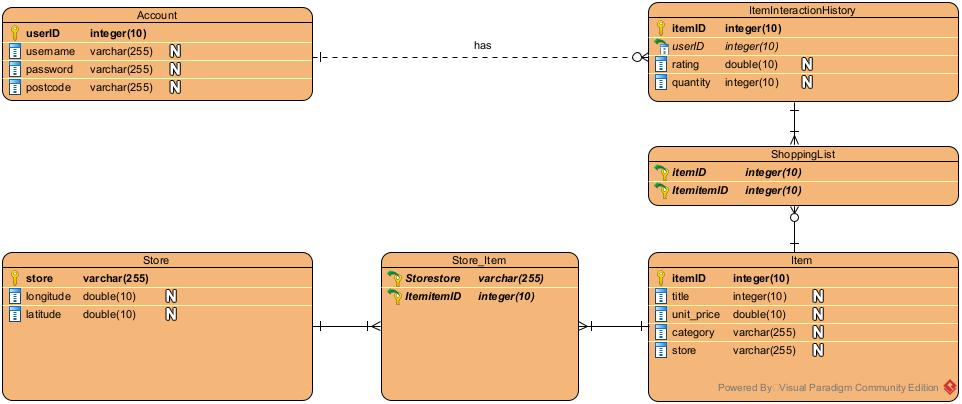
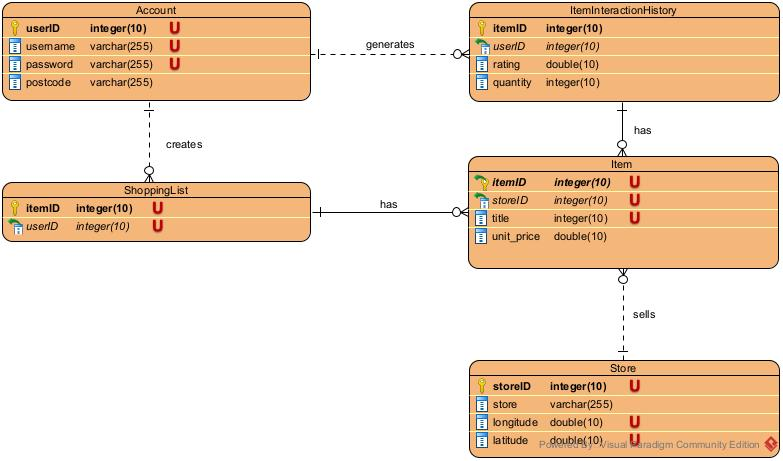
Started to work on the login-register functionality for the user

diff --git a/BuyMeNow/View/SigninPage.xaml b/BuyMeNow/View/SigninPage.xaml
@@ -2,11 +2,46 @@
 <ContentPage xmlns="http://schemas.microsoft.com/dotnet/2021/maui"
              xmlns:x="http://schemas.microsoft.com/winfx/2009/xaml"
              x:Class="BuyMeNow.SigninPage"
-             Title="SigninPage">
-    <VerticalStackLayout>
-        <Label 
-            Text="Welcome to .NET MAUI!"
-            VerticalOptions="Center" 
-            HorizontalOptions="Center" />
-    </VerticalStackLayout>
+             Title="SigninPage"
+             Shell.NavBarIsVisible="False">
+
+    <Grid BackgroundColor="White" RowDefinitions="210, 20, 40, 50, 80, 210, 250">
+        <StackLayout Grid.Row="0" BackgroundColor="AliceBlue">
+            <Image Source="user2.png" Margin="0, 70, 0, 0" Aspect="AspectFit"/>
+        </StackLayout>
+
+        <Label Grid.Row="3" Text="Welcome to Buy Me Now" HorizontalOptions="Center" FontSize="Title" Padding="0" Margin="0"/>
+        <Label Grid.Row="4" Text="Sign in to continue" HorizontalOptions="Center" FontSize="Subtitle"/>
+
+        <StackLayout Grid.Row="5" Orientation="Vertical" HorizontalOptions="CenterAndExpand">
+            <Frame BackgroundColor="Transparent" BorderColor="#00ace6" Padding="0" HorizontalOptions="FillAndExpand" CornerRadius="30">
+                <StackLayout Orientation="Horizontal" WidthRequest="350">
+                    <Frame HeightRequest="40" WidthRequest="40" CornerRadius="30" Padding="0" Margin="5">
+                        <Image Source="user1.png" Margin="0"/>
+                    </Frame>
+                    <Entry Text="{Binding username}" Placeholder="Username" TextColor="Black" VerticalOptions="Center" HorizontalOptions="FillAndExpand" Margin="0,0,20,0"/>
+                </StackLayout>
+            </Frame>
+            <Frame BackgroundColor="Transparent" BorderColor="#00ace6" Padding="0" Margin="0,15,0,0" HorizontalOptions="FillAndExpand" CornerRadius="30">
+                <StackLayout Orientation="Horizontal" WidthRequest="350">
+                    <Frame HeightRequest="40" WidthRequest="40" BorderColor="#00ace6" CornerRadius="30" Padding="0" Margin="5">
+                        <Image Source="lock.png" Margin="0"/>
+                    </Frame>
+                    <Entry Text="{Binding password}" Placeholder="Password" TextColor="Black" VerticalOptions="Center" HorizontalOptions="FillAndExpand" Margin="0,0,20,0"/>
+                </StackLayout>
+            </Frame>
+
+            <StackLayout Orientation="Horizontal" Margin="0,10,0,0" Padding="0">
+                <CheckBox IsChecked="False"/>
+                <Label Text="Remember Me" TextColor="DarkGrey" FontSize="Small" VerticalTextAlignment="Center" HorizontalTextAlignment="Center"/>
+                <Label Text="Forgot Password" TextColor="#00a5f7" HorizontalOptions="EndAndExpand" VerticalTextAlignment="Center"/>
+            </StackLayout>
+            <Button Text="Sign In" CornerRadius="30" WidthRequest="200" Margin="0,15,0,0" Command="{Binding LoginCommand}"/>
+            
+        </StackLayout>
+        <StackLayout Grid.Row="6" Orientation="Horizontal" HorizontalOptions="CenterAndExpand" Margin="0,60,0,0" Padding="0">
+            <Label Text="New User?" TextColor="DarkGray" FontSize="Small"/>
+            <Label Text="Sign Up" TextColor="#00a5f7" FontAttributes="Bold" FontSize="Small"/>
+        </StackLayout>
+    </Grid>
 </ContentPage>

diff --git a/BuyMeNow/Model/Account.cs b/BuyMeNow/Model/Account.cs
@@ -1,70 +1,40 @@
-namespace BuyMeNow.Model;
+using SQLite;
 
-class Account
+namespace BuyMeNow.Model;
+
+public class Account
 {
+    
     private int userID;
-    private string email;
     private string username;
     private string password;
     private string postcode;
     private List<ItemInteractionHistory> interactions;
     private List<ShoppingList> shoppingList;
 
-    public Account(string password, string email = null, string username = null) 
+    public Account(int userID, string username, string password, string postcode)
     {
-        this.email = email;
-        this.username = username;
-        this.password = password;
-    }
-
-    public Account(string email, string username, string password, string postcode)
-    {
-        this.email = email;
+        this.userID = userID;
         this.username = username;
         this.password = password;
         this.postcode = postcode;
     }
 
-    public int UserID
-    {
-        get => userID;
-        set => userID = value;
-    }
+    [PrimaryKey, Unique, NotNull, Column("userID")]
+    public int UserID { get => userID; set => userID = value; }
     
-    public string Email
-    {
-        get => email;
-        set { email = value; }
-    }
+    [MaxLength(255), Unique, NotNull]
+    public string Username { get => username; set => username = value; }
 
-    public string Username
-    {
-        get => username;
-        set => username = value;
-    }
+    [MaxLength(255), Unique, NotNull]
+    public string Password { get => password; set => username = value; }
 
-    public string Password
-    {
-        get => password;
-        set => password = value;
-    }
+    [MaxLength(255), NotNull]
+    public string Postcode { get => postcode; set => postcode = value; }
 
-    public string Postcode
-    {
-        get => postcode;
-        set => postcode = value;
-    }
-    
-    public List<ItemInteractionHistory> Interactions
-    { 
-        get => interactions;
-        set => interactions = value; 
-    }
+    [Ignore]
+    public List<ItemInteractionHistory> Interactions { get => interactions; set => interactions = value; }
 
-    public List<ShoppingList> _shoppingList
-    {
-        get => shoppingList;
-        set => shoppingList = value;
-    }
+    public List<ShoppingList> _shoppingList { get => shoppingList; set => shoppingList = value; }
 }
 

diff --git a/BuyMeNow/Model/ItemInteractionHistory.cs b/BuyMeNow/Model/ItemInteractionHistory.cs
@@ -1,9 +1,12 @@
-namespace BuyMeNow.Model;
+using SQLite;
+using System.ComponentModel.DataAnnotations.Schema;
 
-class ItemInteractionHistory
+namespace BuyMeNow.Model;
+
+public class ItemInteractionHistory
 {
-    private int userID;
     private int itemID;
+    private int userID;
     private double rating;
     private int quantity;
     private Item item;
@@ -16,34 +19,15 @@ class ItemInteractionHistory
         this.quantity = quantity;
     }
 
-    public int UserID
-    {
-        get => userID;
-        set => userID = value; 
-    }
+    //[ForeignKey()]
+    public int ItemID { get => itemID; set => itemID = value; }
 
-    public int ItemID
-    {
-        get => itemID;
-        set => itemID = value;
-    }
+    public int UserID { get => userID; set => userID = value; }
 
-    public double Rating
-    {
-        get => rating;
-        set => rating = value;
-    }
+    public double Rating { get => rating; set => rating = value; }
 
-    public int Quantity
-    {
-        get => quantity;
-        set => quantity = value;
-    }
+    public int Quantity { get => quantity; set => quantity = value; }
 
-    public Item Itm
-    {
-        get => item;
-        set => item = value;
-    }
+    public Item Itm { get => item;set => item = value; }
 }
 

diff --git a/BuyMeNow/Model/Item.cs b/BuyMeNow/Model/Item.cs
@@ -1,6 +1,6 @@
 namespace BuyMeNow.Model;
 
-class Item
+public class Item
 {
     private int itemID;
     private string title;
@@ -21,32 +21,16 @@ class Item
         this.storeLatitude = storeLatitude;
     }
 
-    public int ItemID 
-    { 
-        get => itemID; 
-        set => itemID = value;
-    }
+    public int ItemID { get => itemID; set => itemID = value; }
 
-    public string Title
-    { 
-        get => title;
-        set => title = value; 
-    }
+    public string Title { get => title; set => title = value; }
 
-    public double UnitPrice
-    {
-        get => unit_price;
-        set => unit_price = value;
-    }
+    public double UnitPrice { get => unit_price; set => unit_price = value; }
 
-    public string Store
-    {
-        get => store; 
-        set => store = value;
-    }
+    public string Store { get => store; set => store = value; }
 
-    public double StoreLongitude { get => storeLongitude; }
+    public double StoreLongitude { get => storeLongitude; set => storeLongitude = value; }
 
-    public double StoreLatitude { get => storeLatitude; }
+    public double StoreLatitude { get => storeLatitude; set => storeLatitude = value; }
 }
 

diff --git a/BuyMeNow/Model/ShoppingList.cs b/BuyMeNow/Model/ShoppingList.cs
@@ -1,26 +1,14 @@
 namespace BuyMeNow.Model;
 
-class ShoppingList
+public class ShoppingList
 {
     private int itemID;
     private int userID;
     private Item item;
 
-    public int ItemID
-    {
-        get => itemID; 
-        set => itemID = value;
-    }
+    public int ItemID { get => itemID; set => itemID = value; }
 
-    public int UserID
-    {
-        get => userID;
-        set => userID = value;  
-    }
+    public int UserID { get => userID; set => userID = value; }
 
-    public Item Itm
-    {
-        get => item; 
-        set => item = value;
-    }
+    public Item Itm { get => item; set => item = value; }
 }

diff --git a/BuyMeNow/ViewModel/BaseViewModel.cs b/BuyMeNow/ViewModel/BaseViewModel.cs
@@ -1,7 +1,13 @@
 namespace BuyMeNow.ViewModel;
 
-public class BaseViewModel : INotifyPropertyChanged
+public partial class BaseViewModel : ObservableObject
 {
-     public event PropertyChangedEventHandler PropertyChanged;
-}
+    [ObservableProperty]
+    [NotifyPropertyChangedFor(nameof(IsNotBusy))]
+    bool isBusy;
 
+    [ObservableProperty]
+    string title;
+
+    public bool IsNotBusy => !isBusy;
+}

diff --git a/BuyMeNow/ViewModel/SigninPageViewModel.cs b/BuyMeNow/ViewModel/SigninPageViewModel.cs
@@ -1,0 +1,20 @@
+using System.Security;
+using System.Windows.Input;
+
+namespace BuyMeNow.ViewModel;
+
+public partial class SigninPageViewModel : BaseViewModel
+{
+    [ObservableProperty]
+    string username;
+
+    [ObservableProperty]
+    private  SecureString password;
+
+    [RelayCommand]
+    public async void Login()
+    {
+    }
+    
+}
+

diff --git a/BuyMeNow/MauiProgram.cs b/BuyMeNow/MauiProgram.cs
@@ -18,7 +18,9 @@ public static class MauiProgram
 #if DEBUG
 		builder.Logging.AddDebug();
 #endif
+		builder.Services.AddSingleton<SigninPage>();
+        builder.Services.AddSingleton<SigninPageViewModel>();
 
-		return builder.Build();
+        return builder.Build();
 	}
 }

diff --git a/BuyMeNow/View/SigninPage.xaml.cs b/BuyMeNow/View/SigninPage.xaml.cs
@@ -2,8 +2,9 @@ namespace BuyMeNow;
 
 public partial class SigninPage : ContentPage
 {
-	public SigninPage()
+	public SigninPage(SigninPageViewModel viewModel)
 	{
 		InitializeComponent();
+		this.BindingContext = viewModel;
 	}
 }

diff --git a/BuyMeNow/Services/ISigninService.cs b/BuyMeNow/Services/ISigninService.cs
@@ -1,0 +1,7 @@
+namespace BuyMeNow.Services;
+
+public interface ISigninService
+{
+    Task<Account> Login(string username, string password);
+}
+

diff --git a/BuyMeNow/Services/SigninService.cs b/BuyMeNow/Services/SigninService.cs
@@ -1,0 +1,5 @@
+namespace BuyMeNow.Services;
+
+public class SigninService
+{
+}
